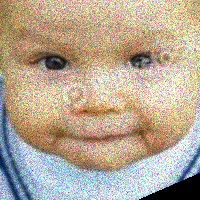
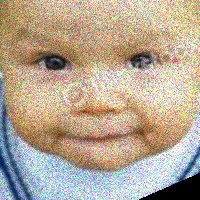
fixed quantization

diff --git a/dataset/noise/QuantizationNoise.py b/dataset/noise/QuantizationNoise.py
@@ -1,7 +1,7 @@
 import cv2
 import numpy as np
 
-def quantization_noise(path, output_path, levels=16):
+def quantization_noise(path, output_path, levels=64):
     img = cv2.imread(path)
     if img is None:
         print(f"Error: Unable to load the image at {path}")
